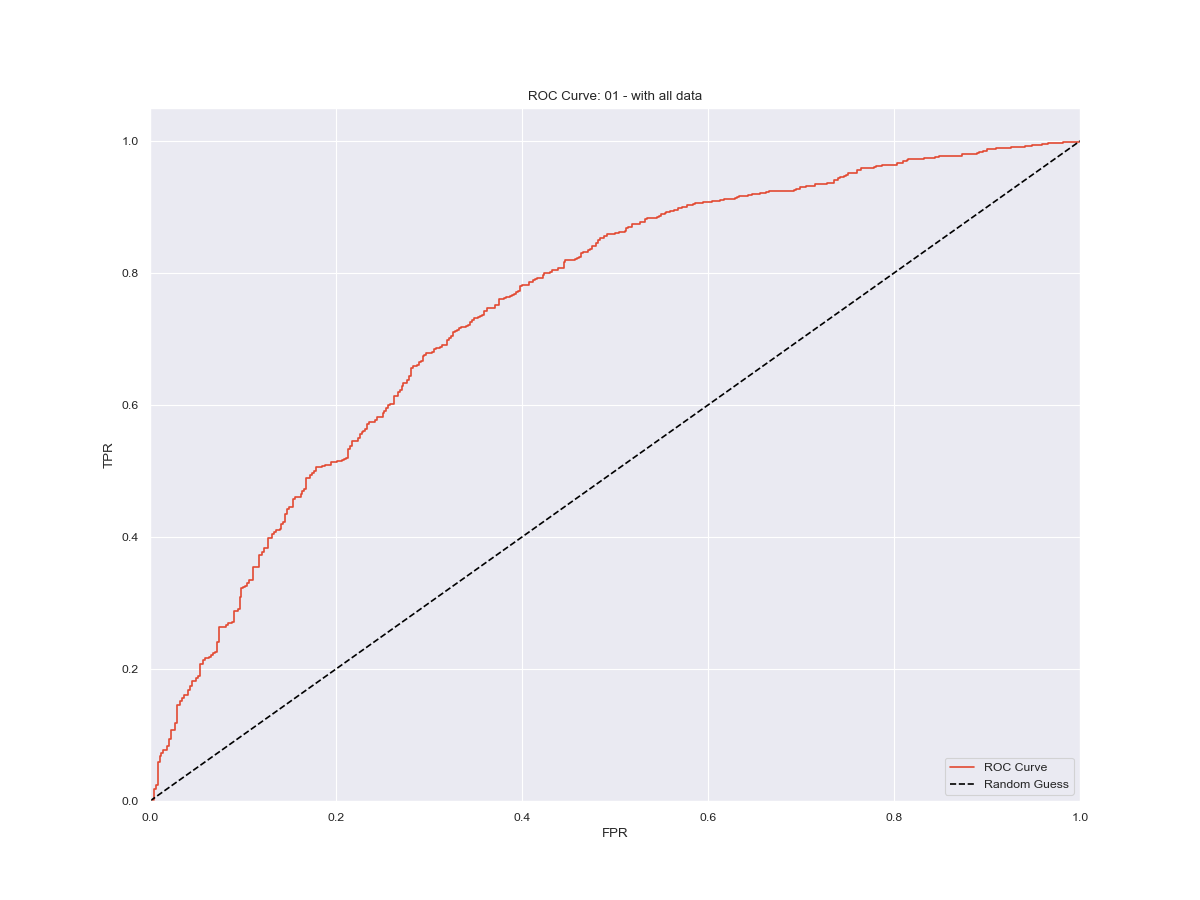
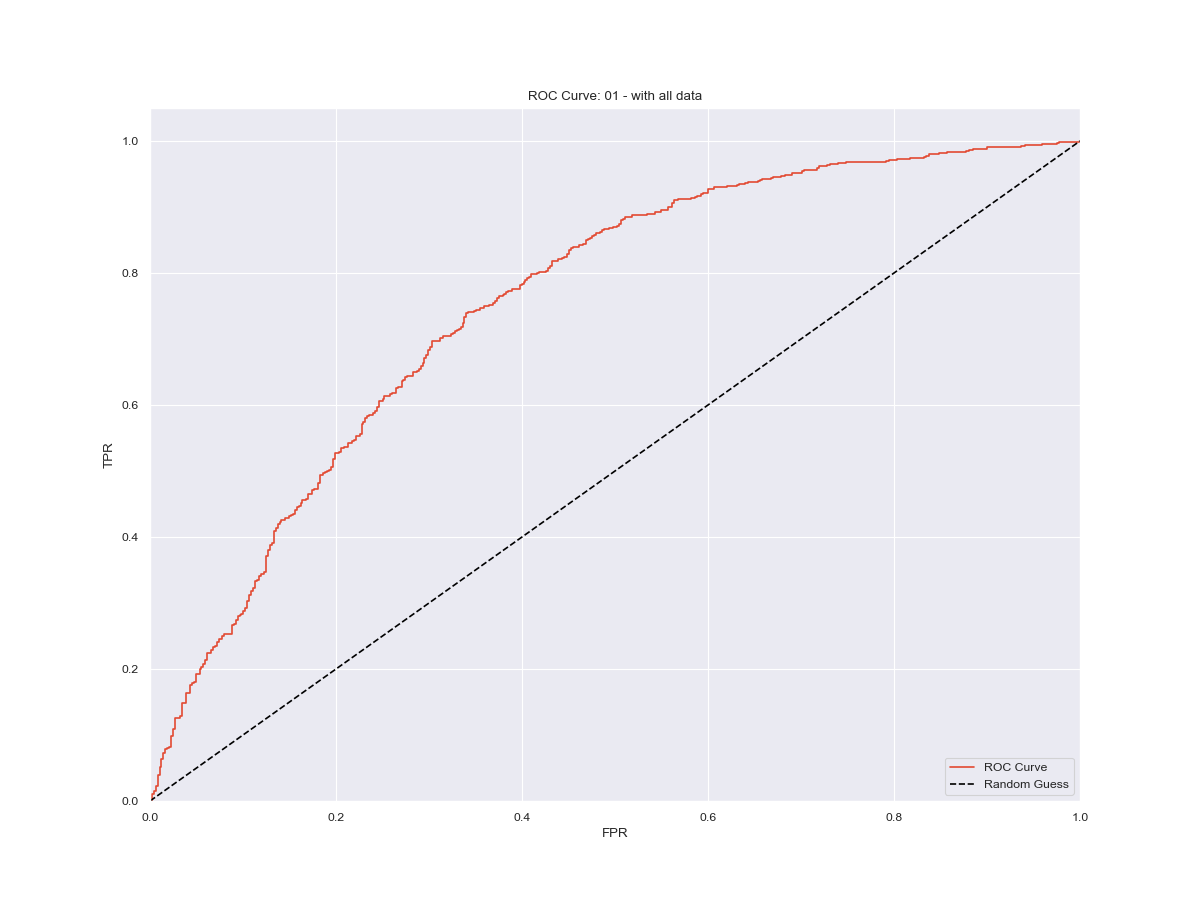
added intercept to data - further changes required

diff --git a/scripts/research/phase_03/research_01.py b/scripts/research/phase_03/research_01.py
@@ -88,6 +88,11 @@ y = data['NSEI_OPEN_DIR']
 
 
 
+# %% 3 -
+X.insert(loc = 0, column = "Intercept", value = 1)
+
+
+
 # %% 4 -
 model = Logit(y, X).fit()
 model.summary()
@@ -235,14 +240,14 @@ plt.roc_curve(fpr, tpr, "01_01", "01 - with all data", "phase_03")
 # %% 8 - find optimal threshold
 optimal_threshold = round(thresholds[np.argmax(tpr - fpr)], 3)
 print(f'Best Threshold is : {optimal_threshold}')
-# Best Threshold is : 0.622
+# Best Threshold is : 0.689
 
 
 
 # %% 9 - AUC Curve
 auc_roc = roc_auc_score(y, y_pred)
 print(f'AUC ROC: {auc_roc}')
-# AUC ROC: 0.7663223042509131
+# AUC ROC: 0.7692547860315854
 
 
 
@@ -251,12 +256,12 @@ y_pred_class = np.where(y_pred <= optimal_threshold,  0, 1)
 print(classification_report(y, y_pred_class))
 #               precision    recall  f1-score   support
 # 
-#          0.0       0.62      0.58      0.60       488
-#          1.0       0.81      0.83      0.82      1037
+#          0.0       0.54      0.69      0.61       488
+#          1.0       0.83      0.72      0.77      1037
 # 
-#     accuracy                           0.75      1525
-#    macro avg       0.71      0.70      0.71      1525
-# weighted avg       0.75      0.75      0.75      1525
+#     accuracy                           0.71      1525
+#    macro avg       0.69      0.71      0.69      1525
+# weighted avg       0.74      0.71      0.72      1525
 
 
 

diff --git a/scripts/research/phase_03/research_03.py b/scripts/research/phase_03/research_03.py
@@ -89,6 +89,11 @@ y = data['NSEI_OPEN_DIR']
 
 
 
+# %% 3 -
+X.insert(loc = 0, column = "Intercept", value = 1)
+
+
+
 # %% 4 -
 model, dropped = pruned_logit(X, y)
 model.summary()
@@ -132,9 +137,9 @@ vif_data
 
 
 # %% 6 - ROC Curve
-X['predicted'] = model.predict(X.drop(dropped, axis = 1))
+y_pred = model.predict(X.drop(dropped, axis = 1))
 
-fpr, tpr, thresholds = roc_curve(y, X['predicted'])
+fpr, tpr, thresholds = roc_curve(y, y_pred)
 
 plt.plot_setup()
 sns.sns_setup()
@@ -150,15 +155,15 @@ print(f'Best Threshold is : {optimal_threshold}')
 
 
 # %% 8 - AUC Curve
-auc_roc = roc_auc_score(y, X['predicted'])
+auc_roc = roc_auc_score(y, y_pred)
 print(f'AUC ROC: {auc_roc}')
 # AUC ROC: 0.7475635107577027
 
 
 
 # %% 10 - Classification Report
-X['predicted_class'] = np.where(X['predicted'] <= optimal_threshold,  0, 1)
-print(classification_report(y, X['predicted_class']))
+y_pred_class = np.where(y_pred <= optimal_threshold,  0, 1)
+print(classification_report(y, y_pred_class))
 #               precision    recall  f1-score   support
 # 
 #          0.0       0.52      0.67      0.59       488
@@ -171,7 +176,7 @@ print(classification_report(y, X['predicted_class']))
 
 
 # %% 11 - 
-table = pd.crosstab(X['predicted_class'], y)
+table = pd.crosstab(y_pred_class, y)
 table
 # NSEI_OPEN_DIR    0.0  1.0
 # predicted_class          

diff --git a/src/cowboysmall/model/logit.py b/src/cowboysmall/model/logit.py
@@ -15,6 +15,12 @@ def pruned_logit(X, y):
         colinear = [val for val in zip(model.model.exog_names, values) if val[1] > 5]
         colinear.sort(key = lambda c: -c[1])
 
+        if insignificant and insignificant[0][0] == "Intercept":
+            insignificant = insignificant[1:]
+
+        if colinear and colinear[0][0] == "Intercept":
+            colinear = colinear[1:]
+
         if insignificant:
             print(f"dropping {insignificant[0][0]}")
             X = X.drop([insignificant[0][0]], axis = 1)

diff --git a/scripts/research/phase_03/research_04.py b/scripts/research/phase_03/research_04.py
@@ -90,6 +90,11 @@ y = data['NSEI_OPEN_DIR']
 
 
 
+# %% 3 -
+X.insert(loc = 0, column = "Intercept", value = pd.Series([1] * X.shape[0]))
+
+
+
 # %% 4 -
 X_train, X_test, y_train, y_test = train_test_split(X, y, test_size = 0.2, random_state = 1337)
 

diff --git a/scripts/research/phase_03/research_02.py b/scripts/research/phase_03/research_02.py
@@ -90,6 +90,11 @@ y = data['NSEI_OPEN_DIR']
 
 
 
+# %% 3 -
+X.insert(loc = 0, column = "Intercept", value = 1)
+
+
+
 # %% 4 -
 X_train, X_test, y_train, y_test = train_test_split(X, y, test_size = 0.2, random_state = 1337)
 
